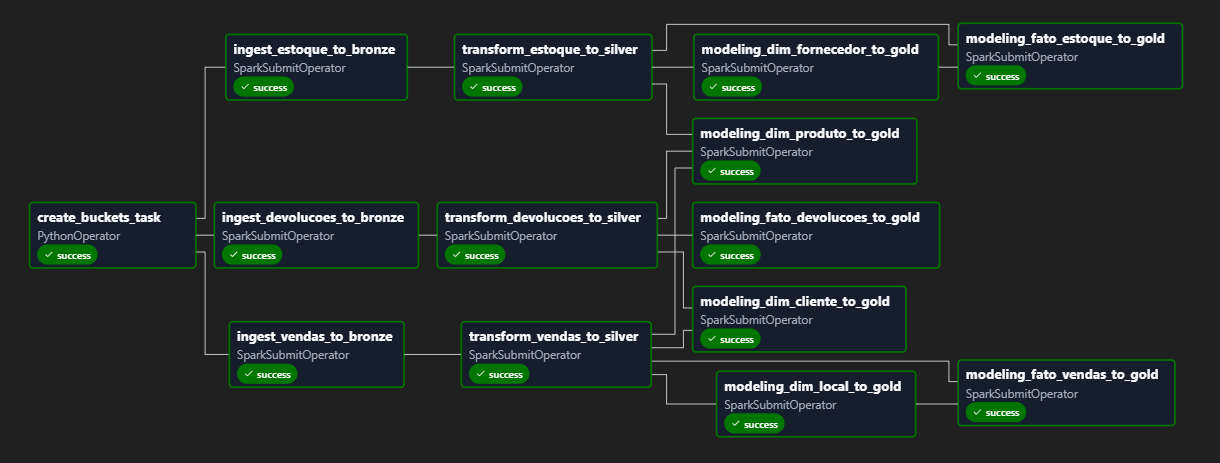
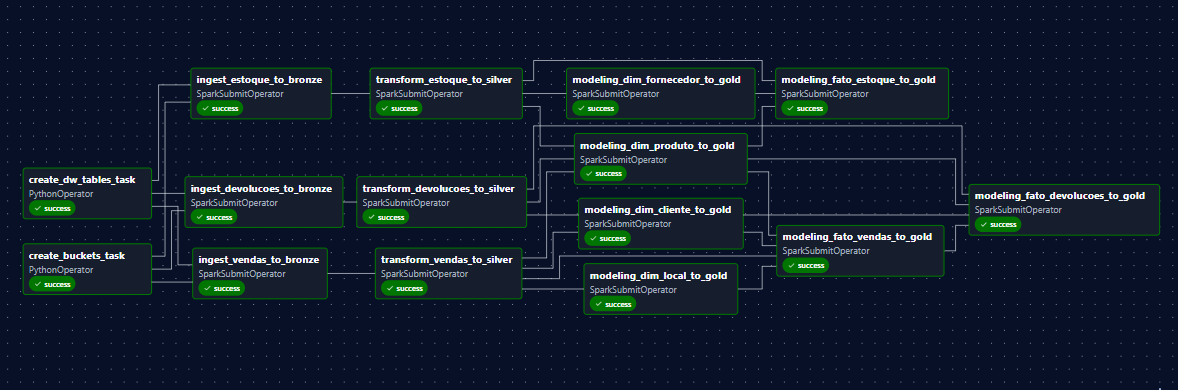
docs: update pipeline dependency documentation, ERD, and DAG graph

diff --git a/README.md b/README.md
@@ -62,9 +62,9 @@ c. **Modelagem Analítica (Gold)**:
      * `modeling_dim_local_to_gold`: Executa após a conclusão de `transform_vendas`.
      * `modeling_dim_fornecedor_to_gold`: Executa após a conclusão de `transform_estoque`.
    * **Fatos**:
-     * `modeling_fato_vendas_to_gold`: Depende de `transform_vendas` e da dimensão `modeling_dim_local_to_gold`.
-     * `modeling_fato_devolucoes_to_gold`: Depende de `transform_devolucoes`.
-     * `modeling_fato_estoque_to_gold`: Depende de `transform_estoque` e da dimensão `modeling_dim_fornecedor_to_gold`.
+     * `modeling_fato_vendas_to_gold`: Depende de `transform_vendas` e das dimensões `modeling_dim_local_to_gold`, `modeling_dim_produto_to_gold` e `modeling_dim_cliente_to_gold`.
+     * `modeling_fato_devolucoes_to_gold`: Depende de `transform_devolucoes`, do carregamento prévio de `modeling_fato_vendas_to_gold` e das dimensões `modeling_dim_produto_to_gold` e `modeling_dim_cliente_to_gold`.
+     * `modeling_fato_estoque_to_gold`: Depende de `transform_estoque` e das dimensões `modeling_dim_fornecedor_to_gold` e `modeling_dim_produto_to_gold`.
 
 #### Grafo de Dependências da DAG
 ![Grafo de Dependências da DAG](docs/dag_pipeline_graph.png)
